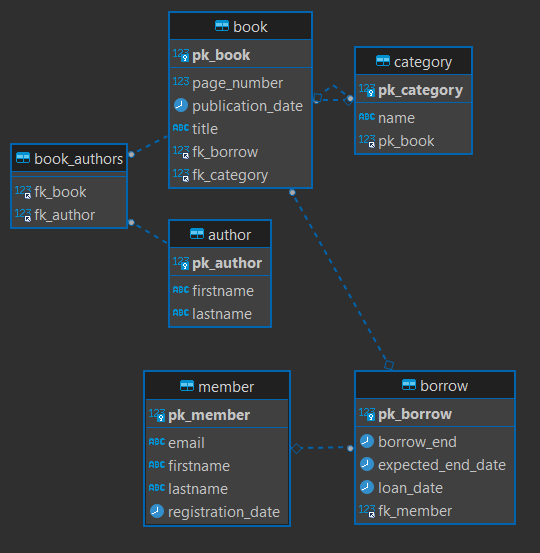
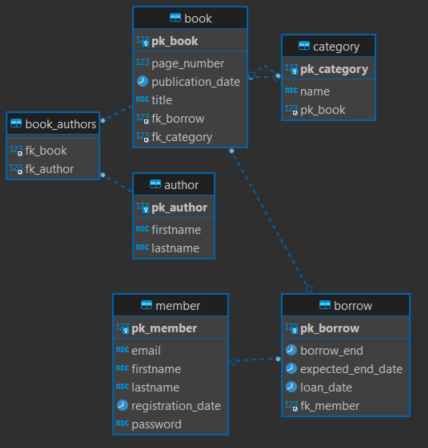
fix(member): Add password when we create account

diff --git a/src/main/java/com/epsi/library/entity/Member.java b/src/main/java/com/epsi/library/entity/Member.java
@@ -3,29 +3,40 @@ package com.epsi.library.entity;
 import jakarta.persistence.*;
 import lombok.Getter;
 import lombok.Setter;
+import org.springframework.security.crypto.bcrypt.BCryptPasswordEncoder;
 
+import java.security.SecureRandom;
 import java.util.Date;
 
 @Entity
 @Getter
 @Setter
 public class Member {
-    @Column(nullable = false)
+
     String firstname;
-    @Column(nullable = false)
+
     String lastname;
+
     @Column(nullable = false)
     String email;
+
+    @Column(nullable = false)
+    String password;
+
     Date registration_date;
     @Id
     @GeneratedValue(strategy = GenerationType.IDENTITY)
     @Column(name = "pk_member", nullable = false)
     private Long id;
 
-    public Member(String email, String firstname, String lastname) {
+    public Member(String email, String firstname, String lastname, String password) {
+        BCryptPasswordEncoder bCryptPasswordEncoder =
+                new BCryptPasswordEncoder(10, new SecureRandom());
+
         this.email = email;
         this.firstname = firstname;
         this.lastname = lastname;
+        this.password = bCryptPasswordEncoder.encode(password);
         this.registration_date = new Date();
     }
 

diff --git a/src/main/java/com/epsi/library/controller/MemberController.java b/src/main/java/com/epsi/library/controller/MemberController.java
@@ -26,7 +26,7 @@ public class MemberController {
     public ResponseEntity<Member> create(@RequestBody Member memberRequest) {
         try {
             Member _member = memberRepository
-                    .save(new Member(memberRequest.getEmail(), memberRequest.getFirstname(), memberRequest.getLastname()));
+                    .save(new Member(memberRequest.getEmail(), memberRequest.getFirstname(), memberRequest.getLastname(), memberRequest.getPassword()));
             return new ResponseEntity<>(_member, HttpStatus.CREATED);
         } catch (Exception e) {
             return new ResponseEntity<>(null, HttpStatus.INTERNAL_SERVER_ERROR);

diff --git a/src/main/java/com/epsi/library/controller/BorrowController.java b/src/main/java/com/epsi/library/controller/BorrowController.java
@@ -50,7 +50,7 @@ public class BorrowController {
         try {
             Borrow _borrow = borrowRepository
                     .save(new Borrow(borrowRequest.getLoan_date(), borrowRequest.getExpected_end_date(), borrowRequest.getBorrow_end()));
-            return new ResponseEntity<>(_borrow, HttpStatus.CREATED);
+            return new ResponseEntity<>(_borrow, HttpStatus.NO_CONTENT);
         } catch (Exception e) {
             return new ResponseEntity<>(null, HttpStatus.INTERNAL_SERVER_ERROR);
         }
